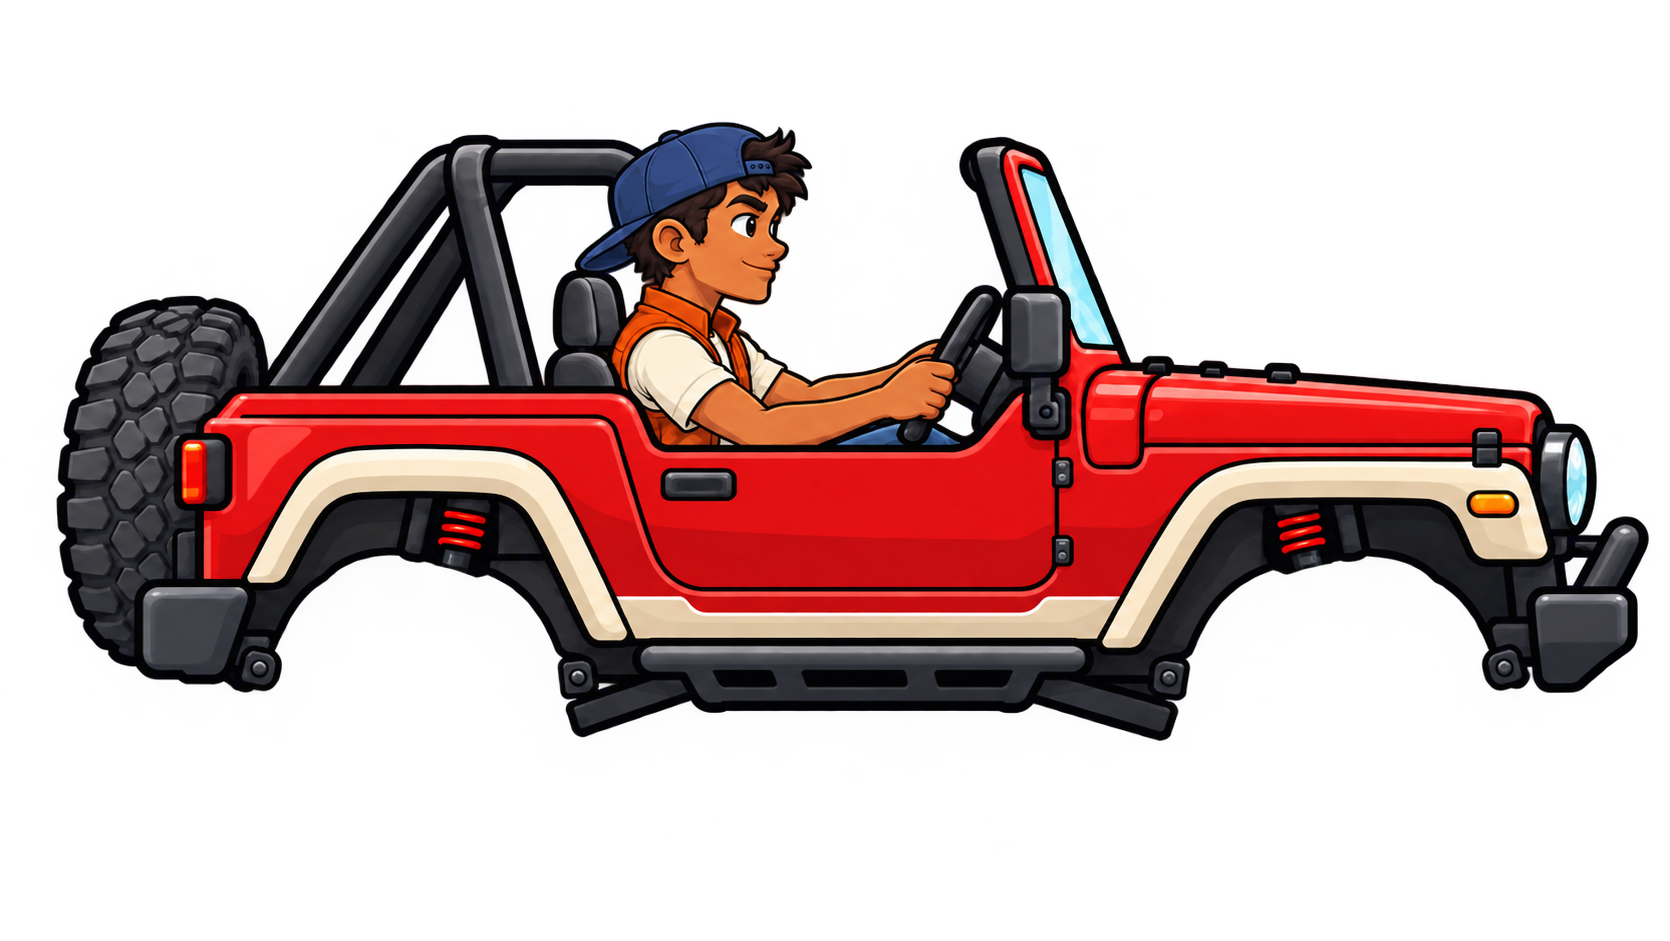
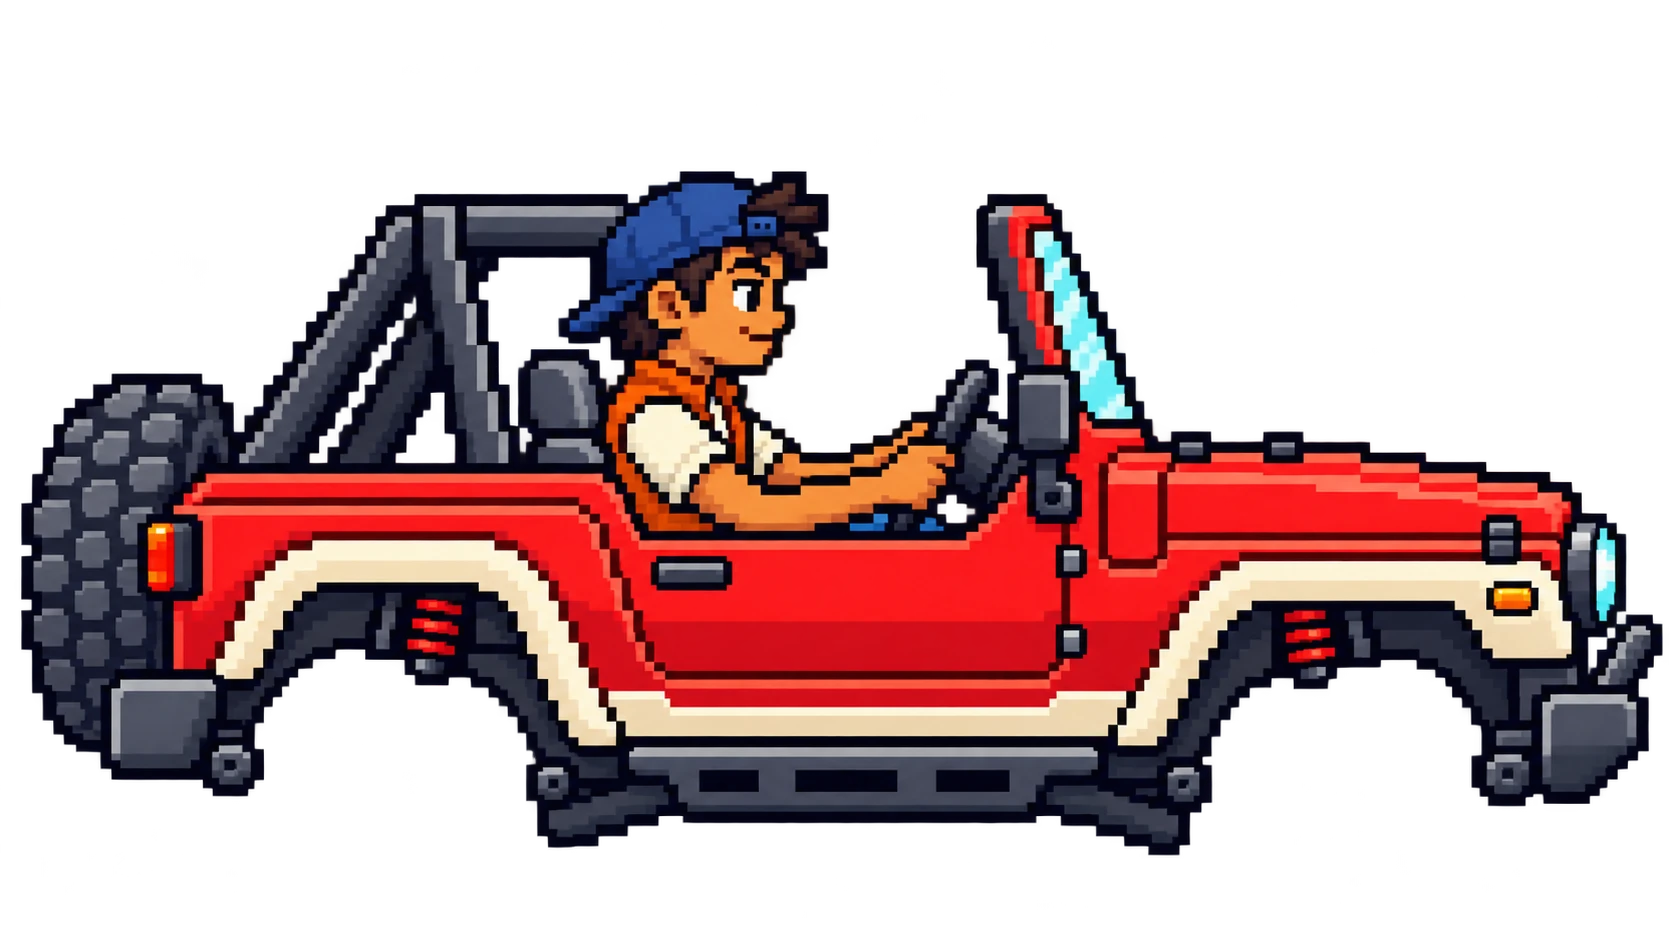
Use pixel-art car, tyre and background artwork
Swap in the new car body, wheel and background images. Wheel mounts and
scale are re-derived from the new body's wheel arches so the tyre radius
stays 0.5 m, and the chassis collision circles follow the new outline,
keeping the bumpers' approach and departure angles so steep V-dips stay
drivable.

diff --git a/src/gamewidget.cpp b/src/gamewidget.cpp
@@ -25,12 +25,16 @@
 namespace {
 constexpr double Pi = 3.14159265358979323846;
 constexpr double WheelRadius = 40.0;
-constexpr double BodyWheelReferenceRadius = 185.0;
+// Car artwork geometry, in car_body.png pixels: the wheel-arch centres and the
+// tyre radius that fills them. The body is scaled so that radius matches the
+// physical wheel.
+constexpr double BodyWheelReferenceRadius = 180.0;
 constexpr double CarSpriteScale = WheelRadius / BodyWheelReferenceRadius;
-constexpr double WheelSpriteTargetRadius = 46.3;
-constexpr double RearWheelSourceX = 419.0;
-constexpr double FrontWheelSourceX = 1356.0;
-constexpr double WheelSourceY = 730.0;
+constexpr double RearWheelSourceX = 395.0;
+constexpr double FrontWheelSourceX = 1345.0;
+constexpr double WheelSourceY = 830.0;
+// The tyre in wheel.png spans 1076 of its 1254 pixels.
+constexpr double WheelSpriteTargetRadius = WheelRadius * 1254.0 / 1076.0;
 constexpr double WheelOffset = (FrontWheelSourceX - RearWheelSourceX) * 0.5 * CarSpriteScale;
 constexpr double WheelLocalY = -43.0;
 constexpr double CarSourceCenterX = (RearWheelSourceX + FrontWheelSourceX) * 0.5;
@@ -92,16 +96,16 @@ struct BodyCollider {
 };
 
 constexpr std::array<BodyCollider, 8> ChassisColliders{{
-    {-170.0, -5.0, 16.0, false},  // spare tyre
+    {-165.0, 8.0, 20.0, false},   // spare tyre
     // Bumper circles sit high and tucked in so the car clears slopes of about
     // 60 degrees (approach and departure angles), as the course demands.
-    {-135.0, -22.0, 9.0, false},  // rear bumper
-    {138.0, -5.0, 11.0, false},   // front bumper
-    {120.0, 26.0, 9.0, false},    // bonnet
-    {-5.0, -32.0, 10.0, false},   // floor pan
-    {-92.0, 80.0, 9.0, false},    // roll cage
-    {24.0, 78.0, 9.0, false},     // windscreen frame
-    {-38.0, 68.0, 15.0, true},    // driver's head
+    {-138.0, -20.0, 9.0, false},  // rear bumper
+    {142.0, -5.0, 11.0, false},   // front bumper
+    {125.0, 30.0, 9.0, false},    // bonnet
+    {0.0, -32.0, 10.0, false},    // skid plate
+    {-90.0, 90.0, 9.0, false},    // roll cage
+    {28.0, 92.0, 9.0, false},     // windscreen frame
+    {-38.0, 80.0, 16.0, true},    // driver's head
 }};
 
 // Floor of every ravine, far below the lowest point of the course.
